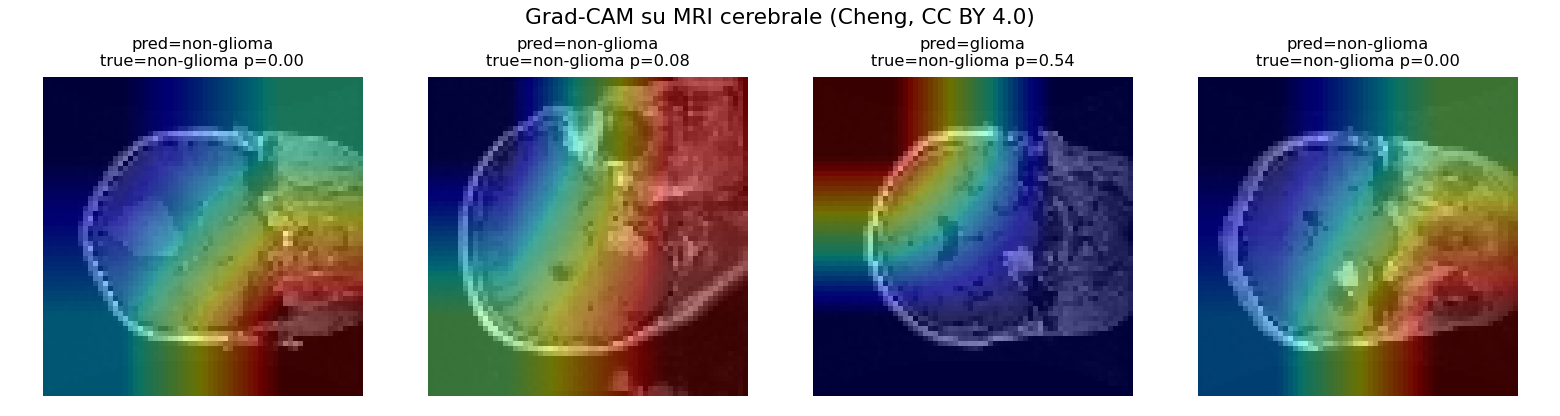
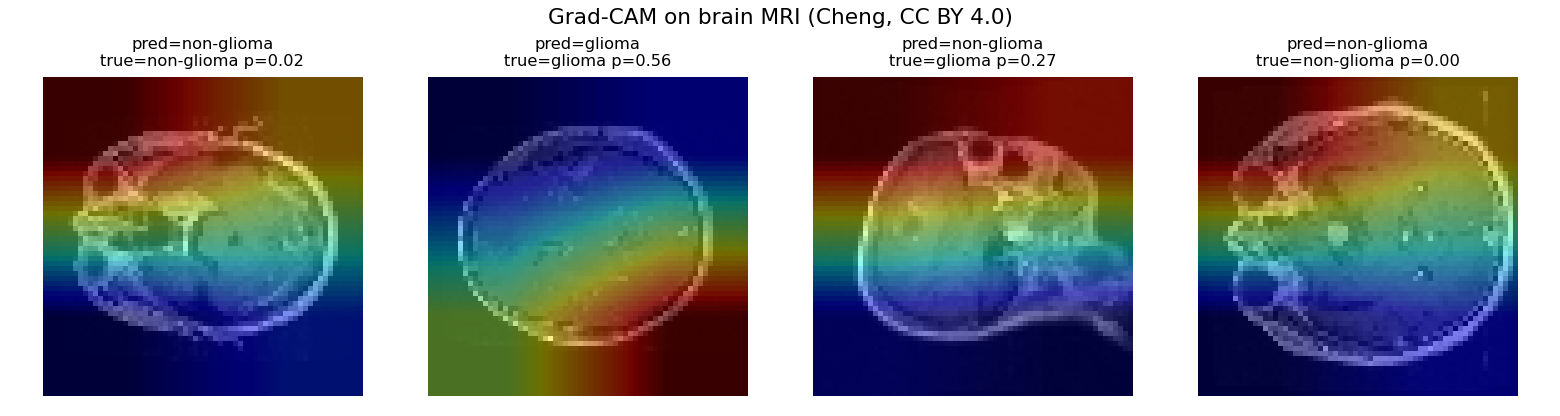
fix: use the full Cheng dataset (233 patients) and re-run the patient-level evaluation

diff --git a/scripts/download_tumor.py b/scripts/download_tumor.py
@@ -1,55 +1,73 @@
-"""Scarica ed estrae il dataset Cheng di tumori cerebrali (figshare, CC BY 4.0).
+"""Download and extract the full Cheng brain-tumour dataset (figshare, CC BY 4.0).
 
-Si scarica UNA delle quattro parti pubbliche (766 slice T1w con contrasto) e la si
-estrae in data/tumor/images/. Idempotente. I dati grezzi NON sono committati
-(cartella data/ gitignorata).
+All four public parts (3064 contrast-enhanced T1w slices, 233 patients) are
+downloaded, checked against the figshare MD5 and extracted into
+data/tumor/images/. Idempotent. Raw data are NOT committed (data/ is ignored).
 
-Riferimento: Cheng J. et al., brain tumor dataset, figshare,
+Reference: Cheng J. et al., brain tumor dataset, figshare,
 DOI 10.6084/m9.figshare.1512427 (CC BY 4.0).
 
-Esegui:  uv run python scripts/download_tumor.py
+Run:  uv run python scripts/download_tumor.py
 """
 
 from __future__ import annotations
 
+import hashlib
 import zipfile
 from pathlib import Path
 
 import requests
 
-# Parte 1/4 del dataset pubblico (slice 1-766).
-URL = "https://ndownloader.figshare.com/files/3381290"
+PARTS = [
+    {"id": 3381290, "name": "brainTumorDataPublic_1-766.zip", "md5": "74b949ad33f042e6e103523091cd1428"},
+    {"id": 3381296, "name": "brainTumorDataPublic_767-1532.zip", "md5": "7e8a875500d2c8a346f270538e29890e"},
+    {"id": 3381293, "name": "brainTumorDataPublic_1533-2298.zip", "md5": "8227bf6080cb71f15a88be8d25c79ae7"},
+    {"id": 3381302, "name": "brainTumorDataPublic_2299-3064.zip", "md5": "b378a80d6174e5317d59eb28430c6652"},
+]
 DEST = Path(__file__).resolve().parents[1] / "data" / "tumor"
-ZIP_PATH = DEST / "part1.zip"
 IMAGES_DIR = DEST / "images"
+N_SLICES = 3064
+
+
+def md5_ok(path: Path, expected: str) -> bool:
+    """True if `path` exists and its MD5 equals `expected`."""
+    if not path.exists():
+        return False
+    h = hashlib.md5()
+    with path.open("rb") as fh:
+        for chunk in iter(lambda: fh.read(1 << 20), b""):
+            h.update(chunk)
+    return h.hexdigest() == expected
 
 
 def main() -> None:
     DEST.mkdir(parents=True, exist_ok=True)
-    print("Dataset: Cheng brain tumor (figshare) — licenza CC BY 4.0")
-
-    if not (ZIP_PATH.exists() and ZIP_PATH.stat().st_size > 0):
-        print("Scarico la parte 1/4 (~204 MB)...")
-        with requests.get(URL, stream=True, timeout=600) as r:
-            r.raise_for_status()
-            with ZIP_PATH.open("wb") as fh:
-                for chunk in r.iter_content(chunk_size=1 << 20):
-                    fh.write(chunk)
-    else:
-        print(f"[skip] zip già presente: {ZIP_PATH.name}")
-
-    existing = list(IMAGES_DIR.glob("*.mat")) if IMAGES_DIR.exists() else []
-    if not existing:
-        IMAGES_DIR.mkdir(exist_ok=True)
-        print("Estraggo i .mat...")
-        with zipfile.ZipFile(ZIP_PATH) as zf:
+    IMAGES_DIR.mkdir(exist_ok=True)
+    print("Dataset: Cheng brain tumor (figshare) - CC BY 4.0")
+    for part in PARTS:
+        zip_path = DEST / part["name"]
+        if md5_ok(zip_path, part["md5"]):
+            print(f"[skip] {part['name']} already present (MD5 ok)")
+        else:
+            print(f"Downloading {part['name']}...")
+            url = f"https://ndownloader.figshare.com/files/{part['id']}"
+            with requests.get(url, stream=True, timeout=600) as r:
+                r.raise_for_status()
+                with zip_path.open("wb") as fh:
+                    for chunk in r.iter_content(chunk_size=1 << 20):
+                        fh.write(chunk)
+            if not md5_ok(zip_path, part["md5"]):
+                raise SystemExit(f"MD5 mismatch for {part['name']}: delete it and retry")
+        with zipfile.ZipFile(zip_path) as zf:
             for name in zf.namelist():
-                if name.endswith(".mat"):
-                    data = zf.read(name)
-                    (IMAGES_DIR / Path(name).name).write_bytes(data)
+                out = IMAGES_DIR / Path(name).name
+                if name.endswith(".mat") and not out.exists():
+                    out.write_bytes(zf.read(name))
     n = len(list(IMAGES_DIR.glob("*.mat")))
-    print(f"Pronte {n} slice in {IMAGES_DIR}")
-    print("Citazione: Cheng et al., DOI 10.6084/m9.figshare.1512427 (CC BY 4.0).")
+    print(f"{n} slices ready in {IMAGES_DIR}")
+    if n != N_SLICES:
+        raise SystemExit(f"Expected {N_SLICES} slices, found {n}")
+    print("Citation: Cheng et al., DOI 10.6084/m9.figshare.1512427 (CC BY 4.0).")
 
 
 if __name__ == "__main__":

diff --git a/tests/test_download_tumor.py b/tests/test_download_tumor.py
@@ -1,0 +1,24 @@
+"""Offline checks for the Cheng download helper (no network)."""
+
+import hashlib
+import importlib.util
+from pathlib import Path
+
+_SPEC = importlib.util.spec_from_file_location(
+    "download_tumor", Path(__file__).resolve().parents[1] / "scripts" / "download_tumor.py"
+)
+dl = importlib.util.module_from_spec(_SPEC)
+_SPEC.loader.exec_module(dl)
+
+
+def test_all_four_parts_listed():
+    assert len(dl.PARTS) == 4
+    assert {p["id"] for p in dl.PARTS} == {3381290, 3381296, 3381293, 3381302}
+
+
+def test_md5_ok(tmp_path):
+    f = tmp_path / "x.bin"
+    f.write_bytes(b"cheng")
+    assert dl.md5_ok(f, hashlib.md5(b"cheng").hexdigest())
+    assert not dl.md5_ok(f, "0" * 32)
+    assert not dl.md5_ok(tmp_path / "missing.bin", "0" * 32)
